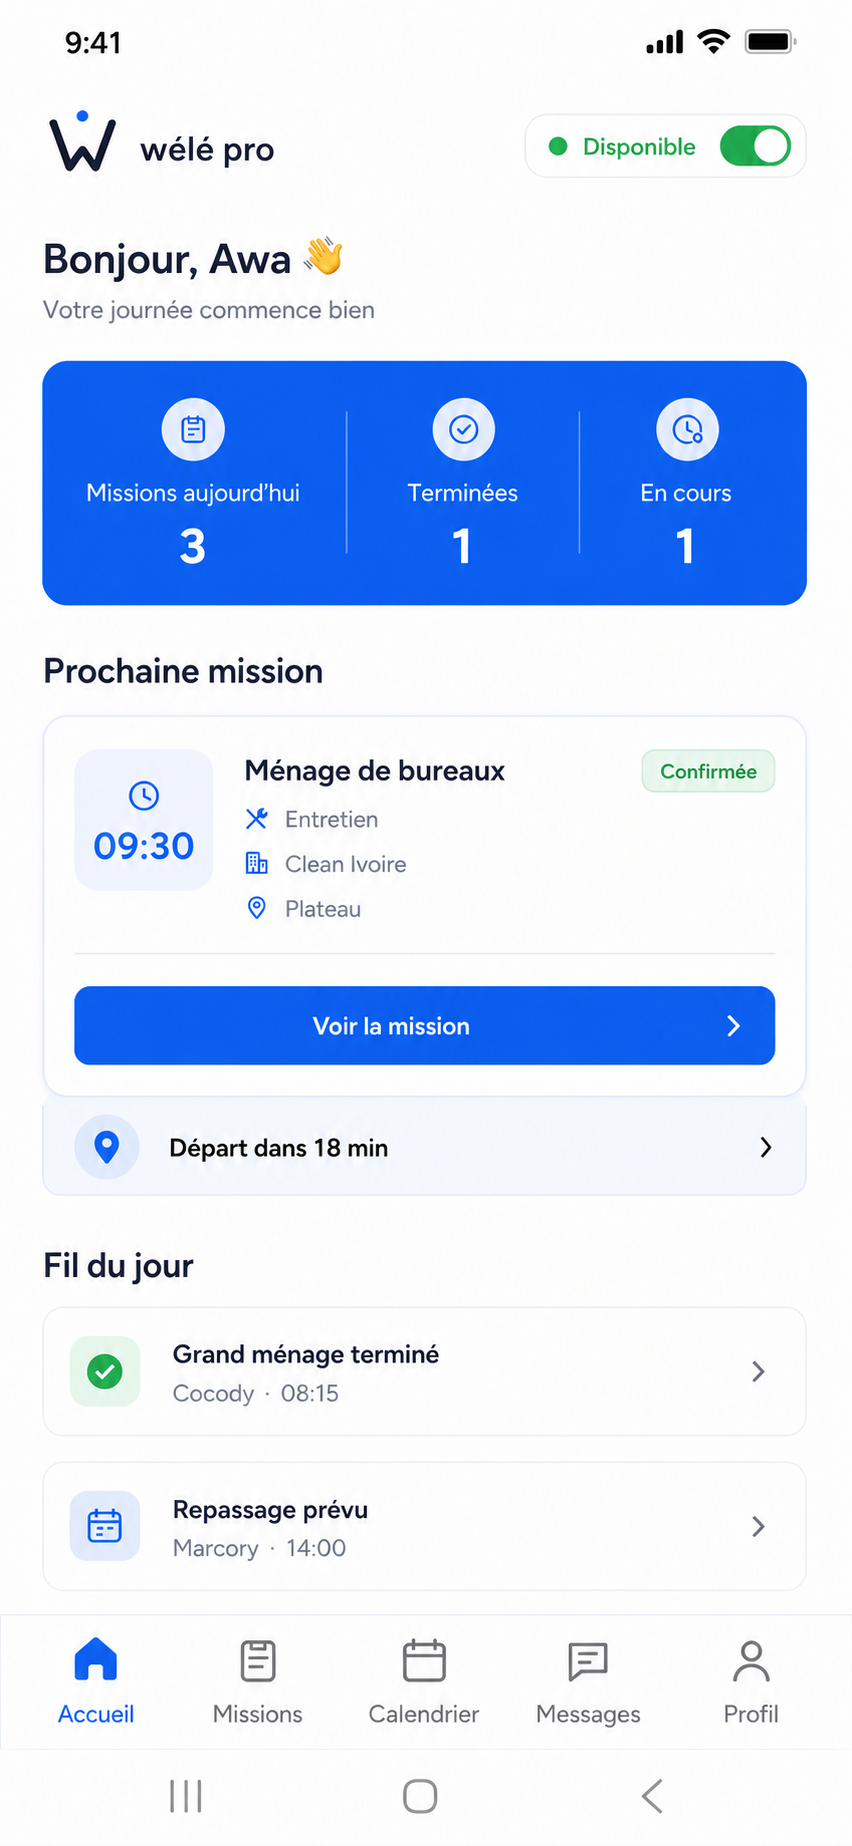
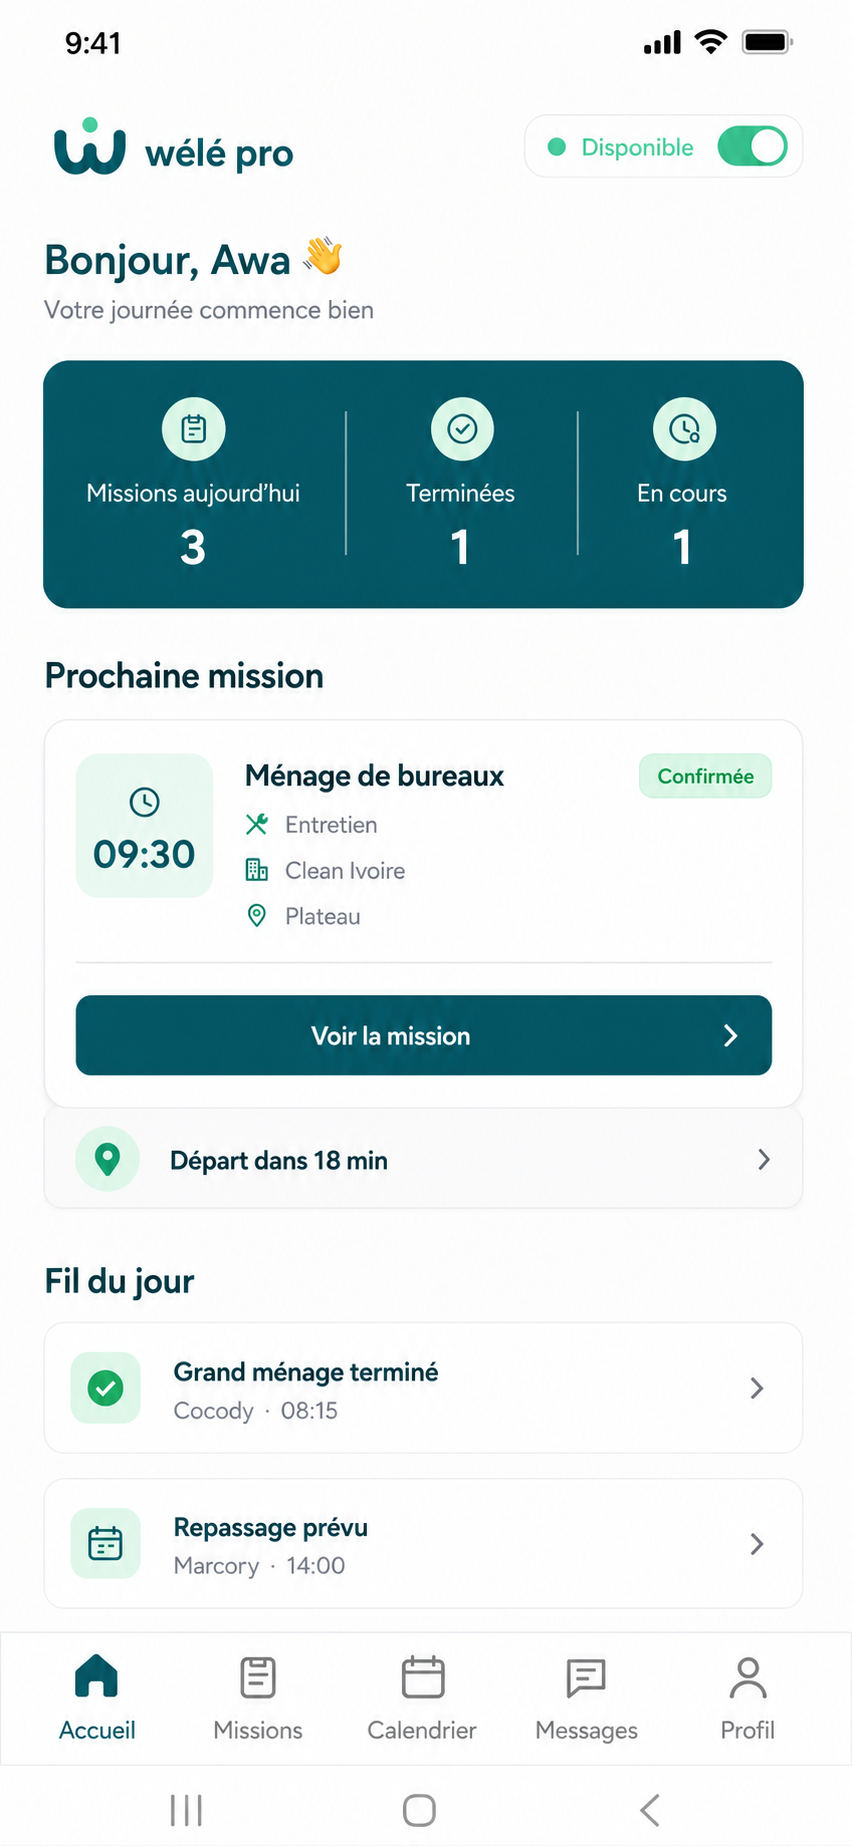
feat(provider-site): apply final Wele identity

diff --git a/src/HomeService.Provider/wwwroot/app.css b/src/HomeService.Provider/wwwroot/app.css
@@ -1437,7 +1437,7 @@ textarea {
 
 .provider-public-topbar nav a:hover {
     background: #f5f7fb;
-    color: #1A6AFF;
+    color: #0C5A66;
 }
 
 .provider-public-topbar .provider-login-link {
@@ -1445,21 +1445,21 @@ textarea {
 }
 
 .provider-public-topbar .provider-join-link {
-    background: #1A6AFF;
+    background: #0C5A66;
     color: #ffffff;
     padding-left: 1rem;
     padding-right: 1rem;
 }
 
 .provider-public-topbar .provider-join-link:hover {
-    background: #155ee5;
+    background: #084A53;
     color: #ffffff;
 }
 
 .provider-landing.premium-b2b {
-    --premium-blue: #1A6AFF;
-    --premium-blue-hover: #155ee5;
-    --premium-blue-soft: #EFF4FF;
+    --premium-blue: #0C5A66;
+    --premium-blue-hover: #084A53;
+    --premium-blue-soft: #EAF7F1;
     --premium-black: #111111;
     --premium-muted: #5f6673;
     --premium-soft: #f7f8fb;
@@ -2347,9 +2347,10 @@ textarea {
 }
 
 .provider-landing.premium-b2b {
-    --premium-blue: #1A6AFF;
-    --premium-blue-hover: #155ee5;
-    --premium-blue-soft: #EFF4FF;
+    --premium-blue: #0C5A66;
+    --premium-blue-hover: #084A53;
+    --premium-blue-soft: #EAF7F1;
+    --premium-mint: #9EDFBF;
     --premium-black: #111111;
     --premium-muted: #666666;
     --premium-soft: #FAFAFA;
@@ -2390,7 +2391,7 @@ textarea {
 }
 
 .provider-landing .premium-hero-overlay {
-    background: linear-gradient(90deg, rgba(255, 255, 255, .95) 0%, rgba(255, 255, 255, .82) 40%, rgba(255, 255, 255, .2) 100%);
+    background: linear-gradient(90deg, rgba(255, 255, 255, .97) 0%, rgba(243, 245, 247, .86) 40%, rgba(158, 223, 191, .12) 100%);
     z-index: 1;
 }
 
@@ -3069,7 +3070,7 @@ textarea {
 .provider-submission-banner {
     align-items: center;
     background: #ffffff;
-    border: 1px solid rgba(26, 106, 255, .22);
+    border: 1px solid rgba(12, 90, 102, .22);
     border-radius: 20px;
     box-shadow: 0 24px 70px rgba(15, 23, 42, .08);
     color: #111111;
@@ -3337,7 +3338,7 @@ textarea {
 }
 
 .provider-onboarding-page .registration-header .eyebrow {
-    color: #1A6AFF;
+    color: #0C5A66;
     font-size: .68rem;
     font-weight: 700;
     letter-spacing: .15em;
@@ -3389,7 +3390,7 @@ textarea {
 }
 
 .provider-onboarding-page .registration-steps button.active {
-    background: #1A6AFF;
+    background: #0C5A66;
     color: #ffffff;
 }
 
@@ -3439,9 +3440,9 @@ textarea {
 
 .provider-onboarding-page .onboarding-icon,
 .provider-onboarding-page .onboarding-icon.orange {
-    background: #EFF4FF;
+    background: #EAF7F1;
     border-radius: 16px;
-    color: #1A6AFF;
+    color: #0C5A66;
     height: 48px;
     width: 48px;
 }
@@ -3538,8 +3539,8 @@ textarea {
 
 .provider-onboarding-page input:focus,
 .provider-onboarding-page select:focus {
-    border-color: #1A6AFF;
-    box-shadow: 0 0 0 4px rgba(26, 106, 255, .12);
+    border-color: #0C5A66;
+    box-shadow: 0 0 0 4px rgba(12, 90, 102, .12);
     outline: none;
 }
 
@@ -3556,7 +3557,7 @@ textarea {
 }
 
 .provider-onboarding-page .remember-row input {
-    accent-color: #1A6AFF;
+    accent-color: #0C5A66;
     min-height: auto;
     width: auto;
 }
@@ -3591,15 +3592,15 @@ textarea {
 
 .provider-onboarding-page .primary-action,
 .provider-onboarding-page .orange-action {
-    background: #1A6AFF !important;
-    border: 1px solid #1A6AFF !important;
+    background: #0C5A66 !important;
+    border: 1px solid #0C5A66 !important;
     color: #ffffff !important;
 }
 
 .provider-onboarding-page .primary-action:hover,
 .provider-onboarding-page .orange-action:hover {
-    background: #155ee5 !important;
-    border-color: #155ee5 !important;
+    background: #084A53 !important;
+    border-color: #084A53 !important;
 }
 
 .provider-onboarding-page .ghost-action {
@@ -3646,13 +3647,13 @@ textarea {
 
 .provider-onboarding-page .opportunity-card:hover,
 .provider-onboarding-page .opportunity-card.selected {
-    border-color: #1A6AFF;
-    box-shadow: 0 14px 36px rgba(26, 106, 255, .12);
+    border-color: #0C5A66;
+    box-shadow: 0 14px 36px rgba(12, 90, 102, .12);
     transform: translateY(-1px);
 }
 
 .provider-onboarding-page .opportunity-card input {
-    accent-color: #1A6AFF;
+    accent-color: #0C5A66;
     height: 18px;
     margin: 0;
     width: 18px;
@@ -3693,8 +3694,8 @@ textarea {
 
 .provider-onboarding-page .service-autocomplete-preview,
 .provider-onboarding-page .invitation-preview {
-    background: #EFF4FF;
-    border: 1px solid rgba(26, 106, 255, .2);
+    background: #EAF7F1;
+    border: 1px solid rgba(12, 90, 102, .2);
     border-radius: 16px;
     display: grid;
     gap: .2rem;
@@ -3710,7 +3711,7 @@ textarea {
 
 .provider-onboarding-page .service-autocomplete-preview strong,
 .provider-onboarding-page .invitation-preview strong {
-    color: #1A6AFF;
+    color: #0C5A66;
     font-weight: 650;
 }
 

diff --git a/src/HomeService.Provider/Components/Layout/MainLayout.razor.css b/src/HomeService.Provider/Components/Layout/MainLayout.razor.css
@@ -64,7 +64,7 @@
 .public-nav a.section-active {
     background: transparent;
     box-shadow: none;
-    color: #1a6aff;
+    color: #0C5A66;
 }
 
 .public-nav a.section-active::after {
@@ -340,8 +340,8 @@ body:has(.premium-b2b) .site-header.theme-premium.is-scrolled {
 .site-header.theme-premium .site-nav ::deep a.active,
 .site-header.theme-premium .site-nav ::deep a:hover,
 .site-header.theme-premium .site-nav a.portal-current {
-    background: rgba(26, 106, 255, .07);
-    color: #1a6aff;
+    background: rgba(12, 90, 102, .07);
+    color: #0C5A66;
 }
 
 .site-header.theme-premium .public-nav a.section-active::after {
@@ -349,12 +349,12 @@ body:has(.premium-b2b) .site-header.theme-premium.is-scrolled {
 }
 
 .site-header.theme-premium .header-primary {
-    background: #1a6aff;
+    background: #0C5A66;
     border-radius: 10px !important;
 }
 
 .site-header.theme-premium .header-primary:hover {
-    background: #155ee5 !important;
+    background: #084A53 !important;
 }
 
 .site-header.theme-premium .header-secondary {
@@ -380,8 +380,8 @@ body:has(.premium-b2b) .site-header.theme-premium.is-scrolled {
 
 .site-header.theme-premium.portal-mode .portal-header-nav a:hover,
 .site-header.theme-premium.portal-mode .portal-header-nav a.portal-current {
-    background: #eff4ff;
-    color: #1a6aff;
+    background: #EAF7F1;
+    color: #0C5A66;
 }
 
 .site-header.theme-premium.portal-mode .logout-button {
